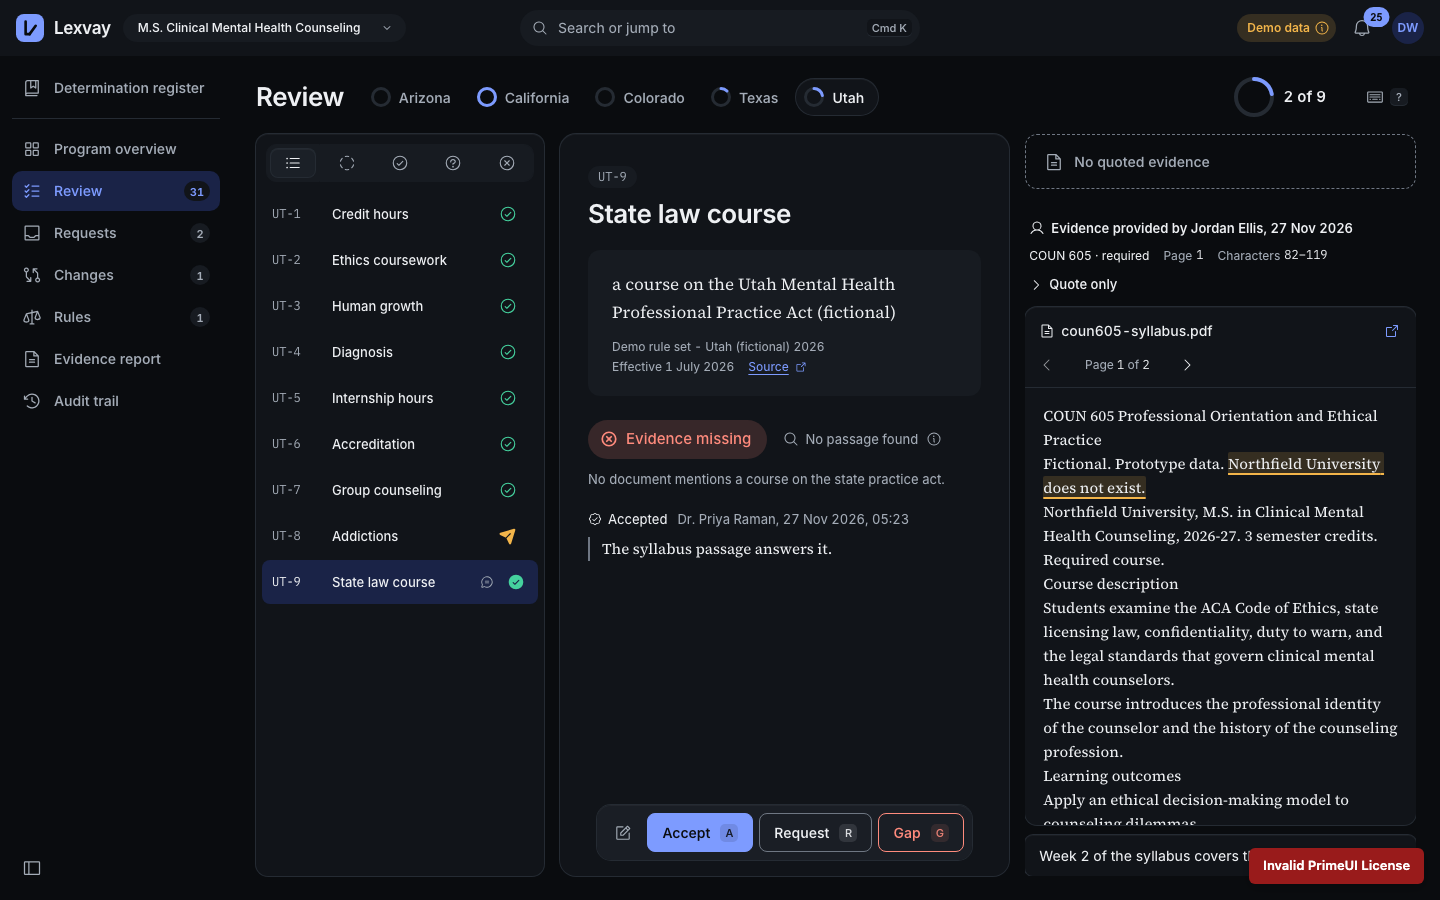
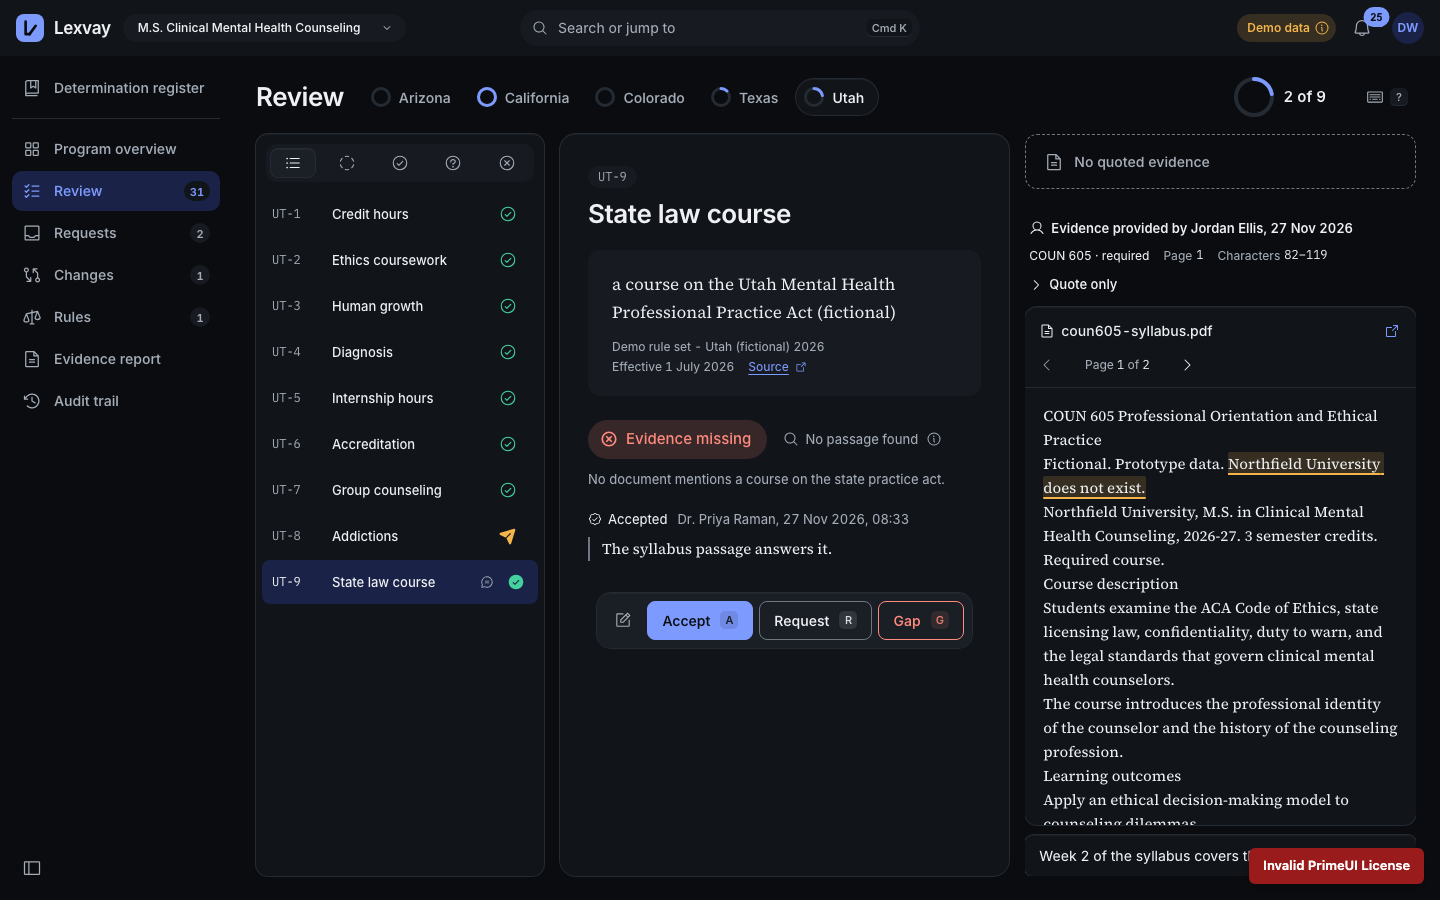
UI2-2 review round 1: decision and progress notes, regenerated screenshots

Changed region(s): [[0.4375, 0.6533, 0.6562, 0.7156], [0.4062, 0.9022, 0.6875, 0.9644]]

diff --git a/docs/decisions/UI2-2.md b/docs/decisions/UI2-2.md
@@ -25,9 +25,11 @@ nothing to sign (v1 showed a disabled button with a help line). The button enter
 signer can sign." A signed state shows its Seal (40 px, named in one sentence) with "Signed" and the outcome; a reopened
 determination shows a "Reopened" chip with an InfoTip. Under 640 px the action takes its own row under the pills.
 
-**D-333 — The DecisionBar and the note.** Accept (A), Request (R) and Gap (G) on the raised, blurred bar, sticky at the
-foot of the centre pane (under 1024 px it is the last item of the one-column layout, so it stays at the foot of the
-window while the list, the requirement or the evidence is in view). Visible words follow the spec; the accessible names
+**D-333 — The DecisionBar and the note.** Accept (A), Request (R) and Gap (G) on the raised, blurred bar. It sits in
+flow 24 px under the requirement and is sticky at 16 px from the foot of the centre pane, so it follows a short
+requirement and sticks to the foot only when the requirement is longer than the pane (orchestrator review: pinning it
+to the foot left a band of empty space under short requirements). Under 1024 px it is the last item of the one-column
+layout, so it stays at the foot of the window while the list, the requirement or the evidence is in view. Visible words follow the spec; the accessible names
 of Accept and Request stay full ("Accept evidence", "Request evidence") and contain the visible word. Gap, its key and a
 note button open the note field in place; with the note open the third action reads "Confirm gap", and Accept and
 Request send the note too. The note button ("Add note") exists because a request's note is what the program reads (F4)

diff --git a/docs/progress/UI2-2.md b/docs/progress/UI2-2.md
@@ -61,3 +61,14 @@ regenerated.
   26 passed (3.5m)
 ```
 `LEXVAY_SCREENSHOTS=1`, slot 1 (the suite plus the three screenshot tests): `29 passed (4.2m)`.
+
+### Review round 1 (2026-11-27)
+- The DecisionBar sits in flow 24 px under the requirement and sticks to the pane's foot (16 px) only when the
+  requirement is longer than the pane; checked on TX-2 (short) and a lengthened rule text at 1440 and 400 px in both
+  themes. `ui2-2-*` screenshots regenerated.
+- CI on the PR head failed in `shell.spec.ts` (UI2-0's avatar menu at 400 px): the test clicked the avatar right after
+  `setViewportSize`, and PrimeNG's Popover closes itself on a window resize (after a reload the menu is also a deferred
+  chunk), so the menu was not open. The test now waits two animation frames for the resize to pass and opens the menu
+  until it is there. Not the Maven download problem.
+- After merging `origin/main`: `make frontend-test` `Test Files 25 passed (25)`, `Tests 277 passed (277)`;
+  `LEXVAY_SCREENSHOTS=1 LEXVAY_E2E_SLOT=1 make e2e` (the whole suite plus the three screenshot tests) `29 passed (3.8m)`.
